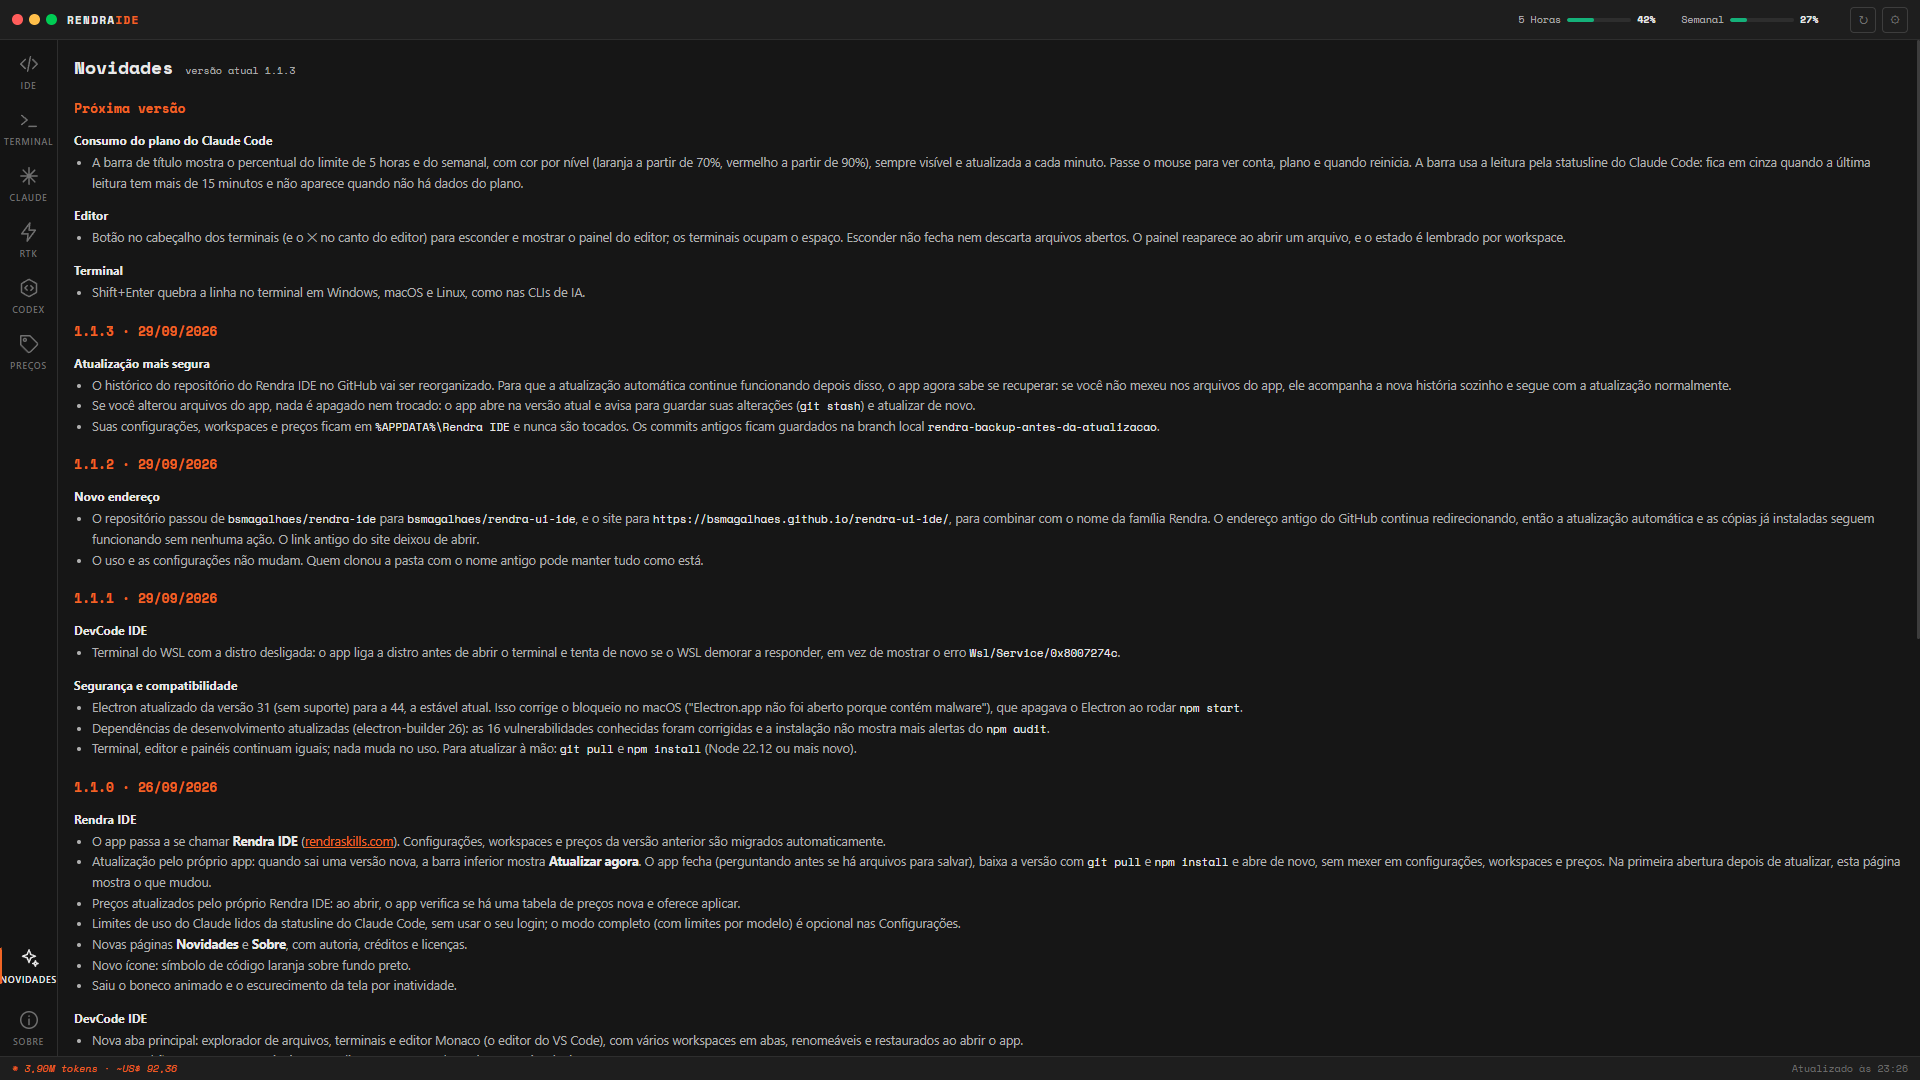
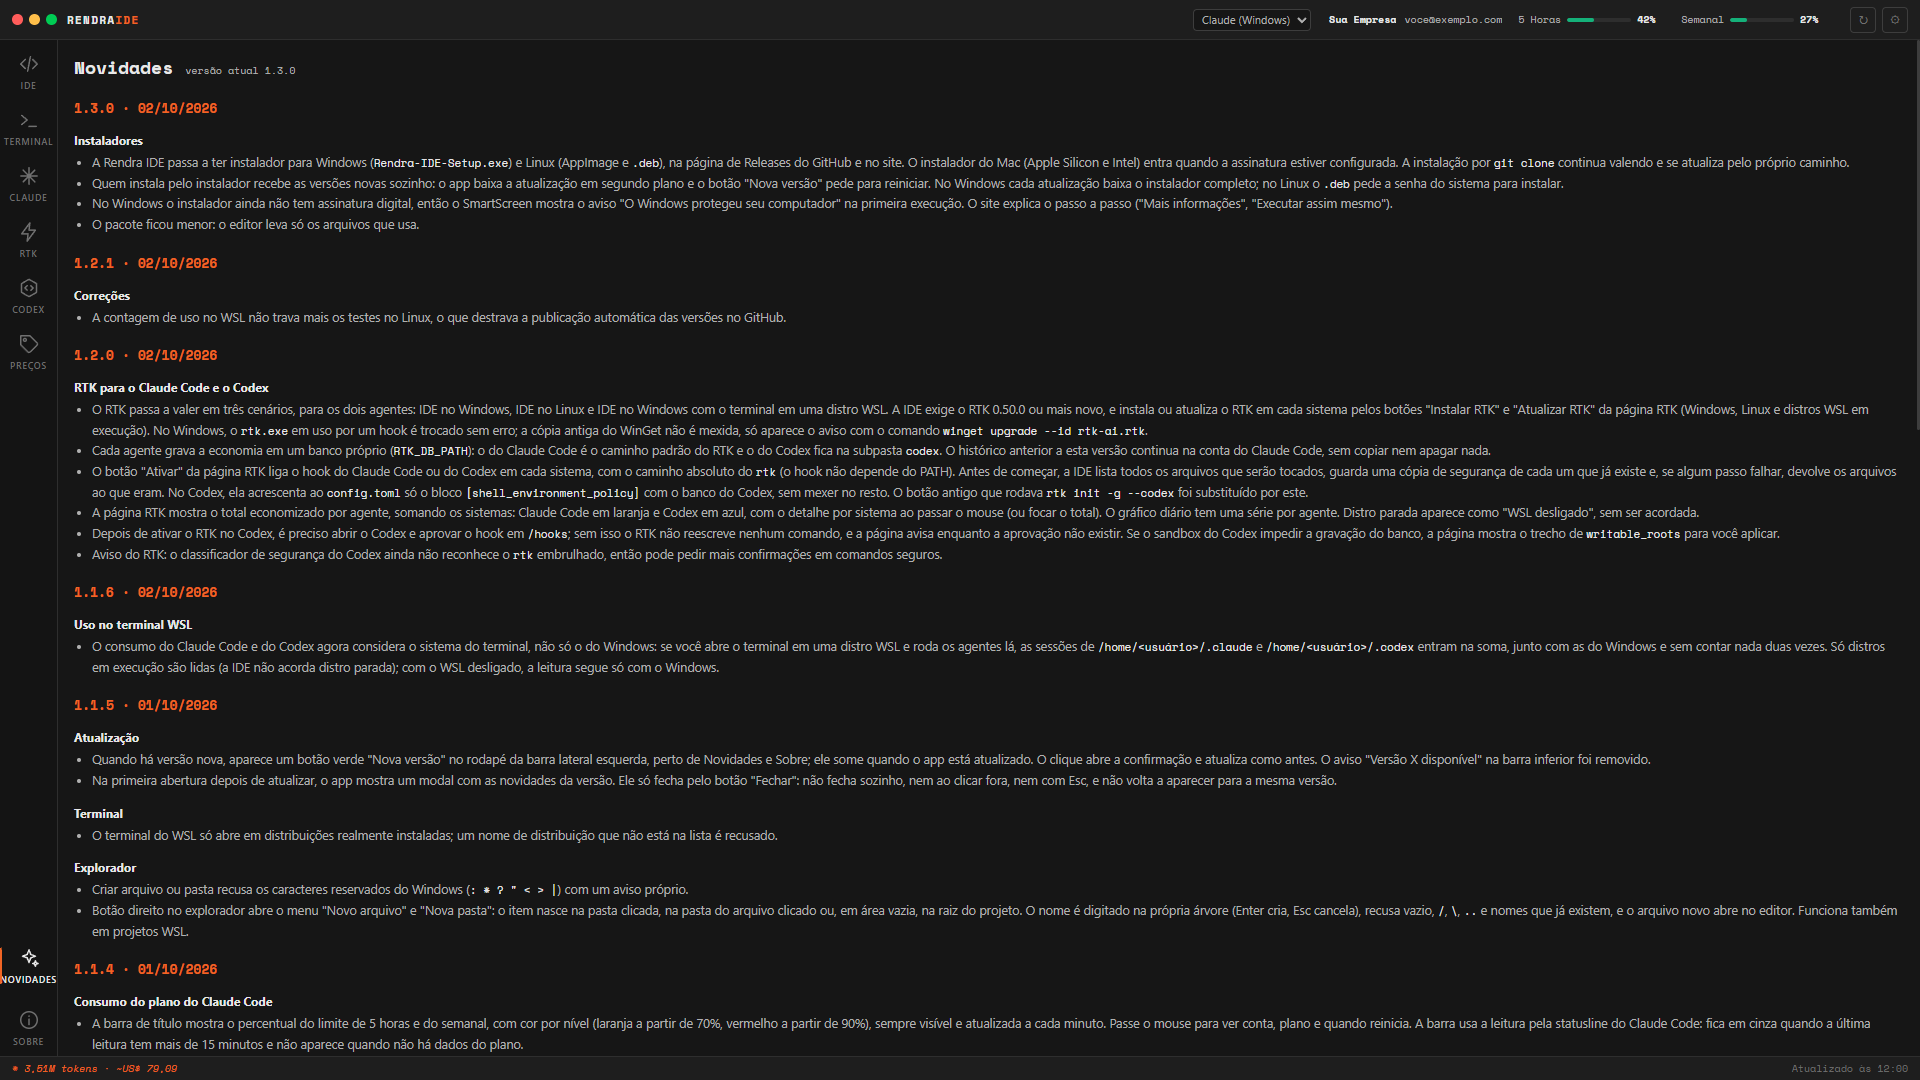
docs: capturas do site e do README com o seletor, a organização e o e-mail fictícios (dados de demonstração, conta Codex fictícia)

diff --git a/scripts/docs-images.js b/scripts/docs-images.js
@@ -121,6 +121,20 @@ function claudeAccountAndLimits() {
   }));
 }
 
+// Codex account for the title-bar selector: a made-up auth.json (fake JWT, placeholder tokens). Never
+// a real account: the e-mail and the organization are the same demo data used for Claude Code
+function codexAccount() {
+  const b64 = o => Buffer.from(JSON.stringify(o)).toString('base64url');
+  const payload = {
+    email: 'voce@exemplo.com', name: 'Você',
+    'https://api.openai.com/auth': { chatgpt_plan_type: 'plus', organizations: [{ id: 'org-demo', is_default: true, role: 'owner', title: 'Sua Empresa' }] },
+  };
+  write(path.join(HOME, '.codex', 'auth.json'), JSON.stringify({
+    auth_mode: 'chatgpt',
+    tokens: { id_token: `${b64({ alg: 'none' })}.${b64(payload)}.demo`, access_token: 'token-demo', refresh_token: 'token-demo', account_id: 'conta-demo' },
+  }));
+}
+
 // A small project with git history and pending changes (colors in the explorer)
 function demoProject() {
   const dir = path.join(HOME, 'projetos', 'loja-online');
@@ -182,7 +196,7 @@ async function connect() {
 const sleep = ms => new Promise(r => setTimeout(r, ms));
 
 async function main() {
-  claudeSessions(); codexSessions(); claudeAccountAndLimits();
+  claudeSessions(); codexSessions(); claudeAccountAndLimits(); codexAccount();
   const project = demoProject();
   appData(project);
   fs.mkdirSync(OUT, { recursive: true });
